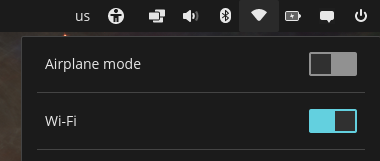
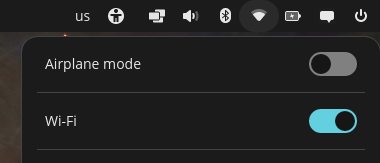
Update Bluetooth enable screenshots to 24.04

diff --git a/content/bluetooth.md b/content/bluetooth.md
@@ -19,21 +19,13 @@ tableOfContents: true
 
 If Bluetooth isn't working, first try toggling airplane mode on and back off. This can be done using a keyboard shortcut if your keyboard has one (look for a key with an airplane symbol, commonly `Fn`+`F11` or `Fn`+`F9` on System76 laptops). Otherwise, use the option at the top of the Wi-Fi menu near the top-right corner of your screen.
 
-![Bluetooth toggle in WiFi menu](/images/bluetooth/airplane-mode.png)
+![Airplane mode toggle in WiFi menu](/images/bluetooth/airplane-mode.png)
 
-Next, make sure Bluetooth is enabled in the top bar, or in the <u>Bluetooth</u> system settings.
+Next, make sure Bluetooth is enabled in the top bar, or in the Bluetooth page of the Settings application.
 
-Navigate to the upper-right corner of the screen and click on the Settings icon. A window will appear. In the Wi-Fi tab, you'll find the Airplane Mode toggle. Switch it on and off to enable and disable Airplane Mode.
+![Bluetooth toggle in applet](/images/bluetooth/bluetooth-enable-applet.png)
 
-![navigate to settings tab](/images/bluetooth/bluetooth_10.png)
-
-![airplane mode toggle](/images/bluetooth/bluetooth_11.png)
-
-Turn on Bluetooth and confirm it is enabled in the top bar, or in the Bluetooth system settings.
-
-![bluetooth top bar](/images/bluetooth/bluetooth_13.png)
-
-![bluetooth system settings](/images/bluetooth/bluetooth_12.png)
+![Bluetooth toggle in Settings](/images/bluetooth/bluetooth-enable-settings.png)
 
 To start, enable or check the status of Bluetooth using the command line, open the Terminal by pressing `Super` + `T` and type the following commands:
 
